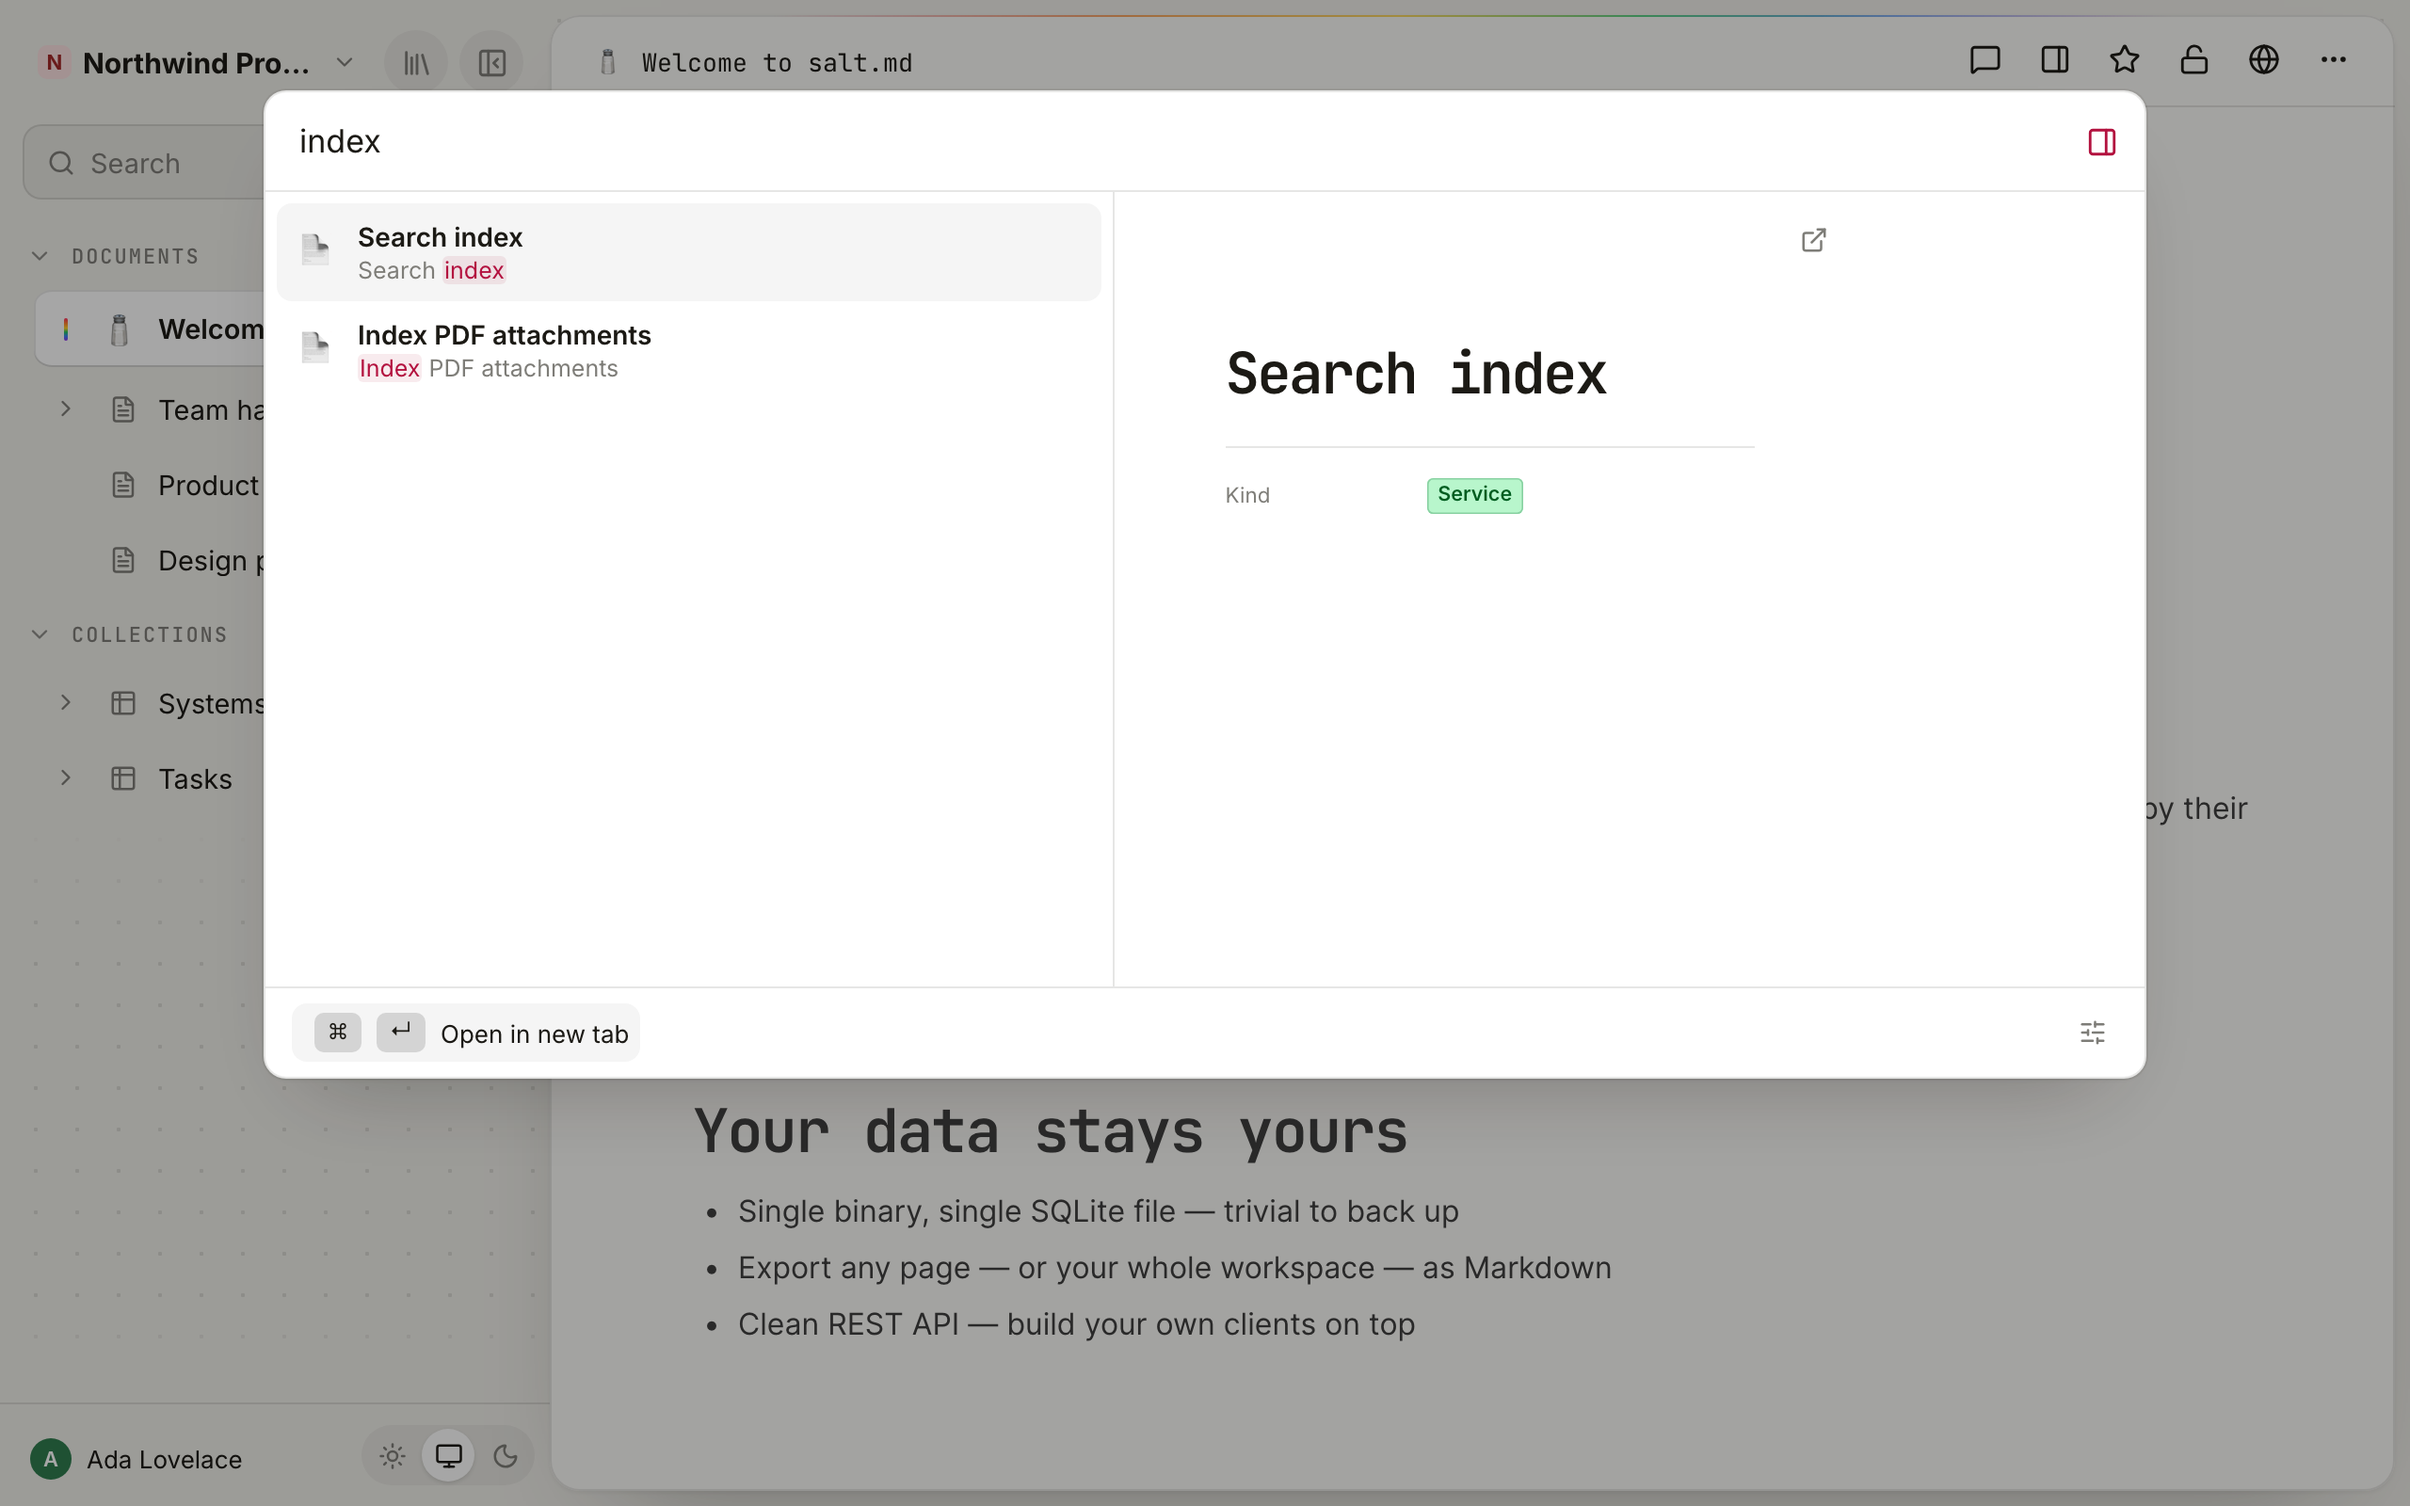
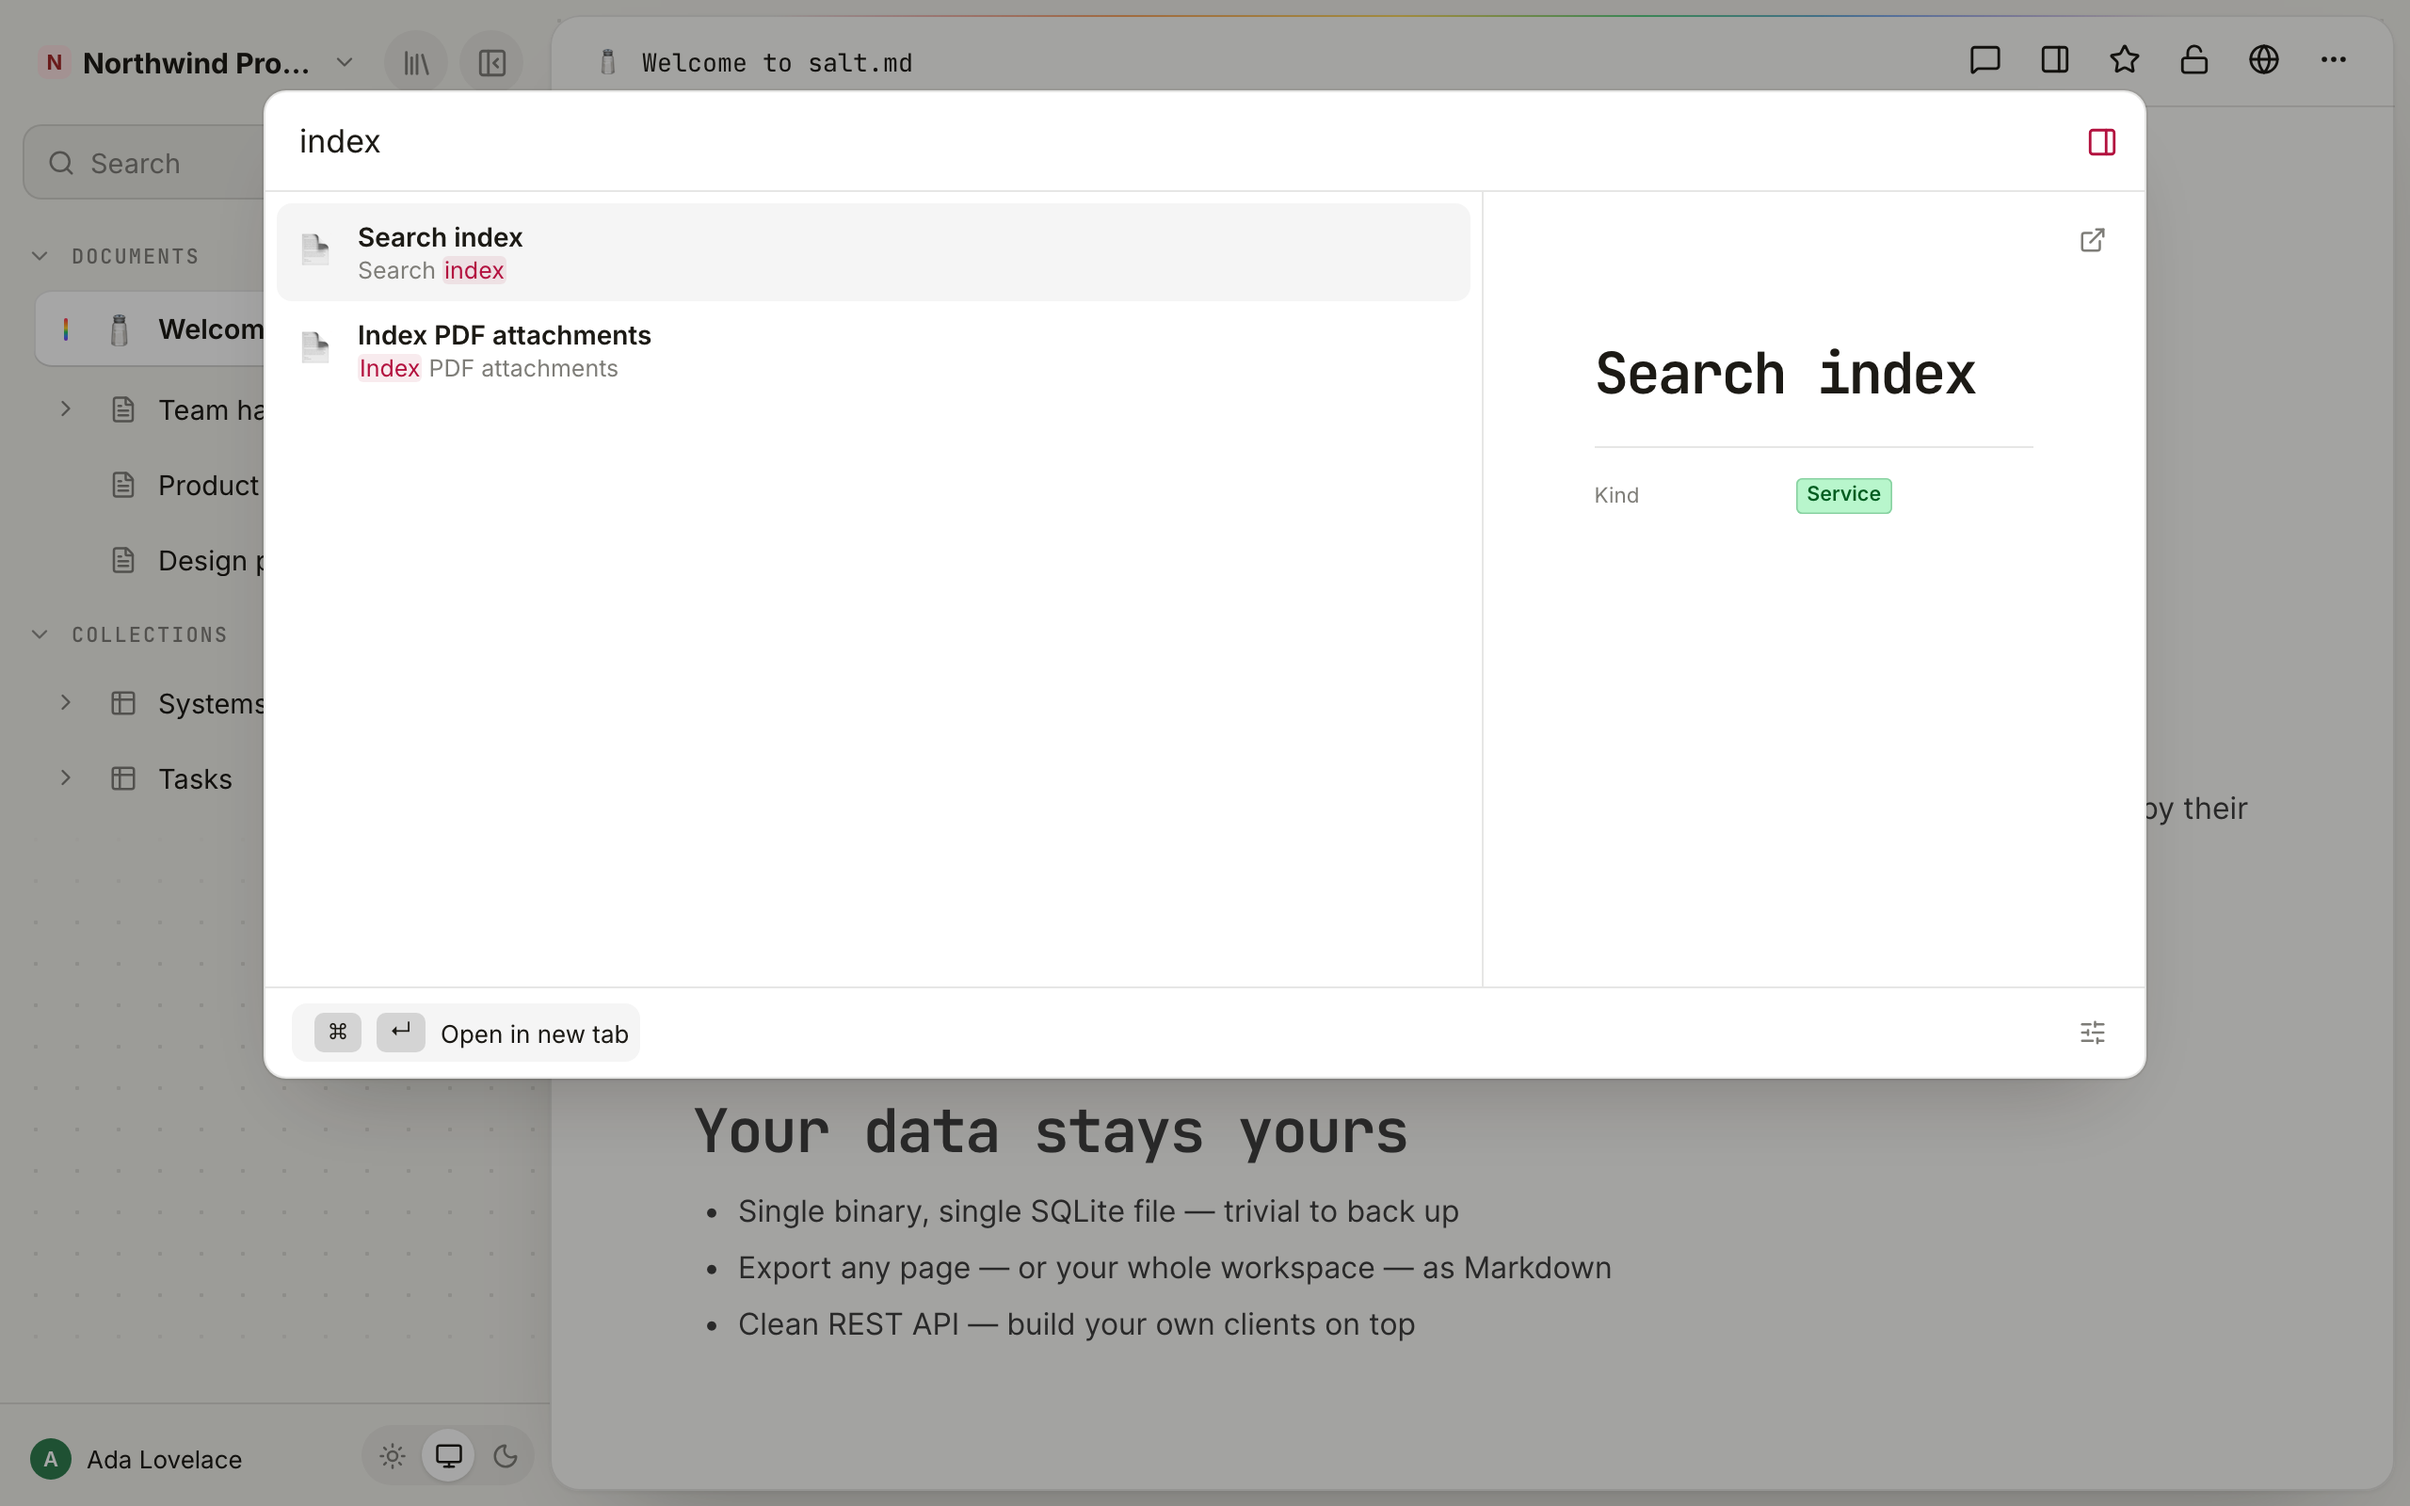
Palette: workspace switch leads, 2/3-1/3 split, always-new-tab
- Workspace rows render first with a 'Switch to {name}' caption, in
  their own leading section, in every mode.
- Results take 2/3, preview 1/3; scope chips are a vertical scroller.
- 'Always open in new tab' replaces the preview-only setting: plain
  clicks and Enter on any row open aside, modifiers keep meaning.

Changed region(s): [[0.5, 0.2188, 0.8125, 0.2812], [0.7188, 0.3125, 0.7812, 0.3438], [0.5938, 0.3125, 0.6562, 0.3438]]

diff --git a/web/src/components/SearchModal.tsx b/web/src/components/SearchModal.tsx
@@ -107,6 +107,9 @@ export default function SearchModal({
   // a new one. Remembered across sessions, next to the scope memory.
   const [previewNewTab, setPreviewNewTab] = useState(() => {
     try {
+      // Renamed from salt-search-preview-newtab; the old key is honored once.
+      const cur = localStorage.getItem('salt-search-newtab');
+      if (cur !== null) return cur === '1';
       return localStorage.getItem('salt-search-preview-newtab') === '1';
     } catch {
       return false;
@@ -151,14 +154,23 @@ export default function SearchModal({
   const matchedCmds = useMemo(() => matchCommands(cmdQuery, allCmds), [cmdQuery, allCmds]);
   // In command mode (`>`) only commands; otherwise server hits first and the
   // matching commands after them. An empty query shows recents, then commands.
+  // Workspace rows always lead: switching scope precedes switching pages.
   const items: NavItem[] = useMemo(() => {
-    if (cmdOnly) return matchedCmds.map((c) => ({ kind: 'command' as const, c }));
-    const out: NavItem[] = results.map((r) => ({ kind: 'result' as const, r }));
+    const isWs = (c: PaletteCommand & { aliases: string[] }) => c.id.startsWith('ws:');
+    if (cmdOnly) {
+      const ws = matchedCmds.filter(isWs);
+      const rest = matchedCmds.filter((c) => !isWs(c));
+      return [...ws, ...rest].map((c) => ({ kind: 'command' as const, c }));
+    }
+    const ws = matchedCmds.filter(isWs);
+    const out: NavItem[] = ws.map((c) => ({ kind: 'command' as const, c }));
+    for (const r of results) out.push({ kind: 'result' as const, r });
     if (q.trim() === '') {
       for (const r of recent ?? []) out.push({ kind: 'recent' as const, r });
-      for (const c of allCmds) out.push({ kind: 'command' as const, c });
+      for (const c of allCmds.filter((c) => !isWs(c))) out.push({ kind: 'command' as const, c });
     } else {
-      for (const c of matchedCmds.slice(0, 5)) out.push({ kind: 'command' as const, c });
+      for (const c of matchedCmds.filter((c) => !isWs(c)).slice(0, 5))
+        out.push({ kind: 'command' as const, c });
     }
     return out;
     // allCmds/matchedCmds are fresh arrays per render; identity deps would loop.
@@ -193,6 +205,18 @@ export default function SearchModal({
     return () => window.clearTimeout(timer);
   }, [previewId]);
 
+  // When on, every plain activation opens a new tab: result rows, recents
+  // and preview clicks alike. Modified clicks keep their meaning.
+  const openPageId = (id: string) => (previewNewTab ? (onOpenInNewTab ?? onNavigate)(id) : onNavigate(id));
+
+  const openRowClick = (e: React.MouseEvent, id: string) => {
+    if (e.button === 0 && !e.shiftKey && !e.altKey && !e.metaKey && !e.ctrlKey) {
+      openPageId(id);
+      return;
+    }
+    openPage(e, id, { onNavigate, onOpenInNewTab });
+  };
+
   const openItem = (it: NavItem, e?: React.KeyboardEvent | React.MouseEvent) => {
     if (it.kind === 'command') {
       const id = it.c.id;
@@ -217,14 +241,14 @@ export default function SearchModal({
         else onNavigate(id);
       } else if (e.altKey) onNavigate(id);
       else if (e.metaKey || e.ctrlKey) (onOpenInNewTab ?? onNavigate)(id);
-      else onNavigate(id);
+      else openPageId(id);
       return;
     }
     if (e && 'shiftKey' in e) {
-      openPage(e as React.MouseEvent, id, { onNavigate, onOpenInNewTab });
+      openRowClick(e as React.MouseEvent, id);
       return;
     }
-    onNavigate(id);
+    openPageId(id);
   };
 
   const onKey = (e: React.KeyboardEvent) => {
@@ -269,7 +293,7 @@ export default function SearchModal({
     setPreviewNewTab((v) => {
       const next = !v;
       try {
-        localStorage.setItem('salt-search-preview-newtab', next ? '1' : '0');
+        localStorage.setItem('salt-search-newtab', next ? '1' : '0');
       } catch {
         /* private mode — the choice still applies for this session */
       }
@@ -297,6 +321,14 @@ export default function SearchModal({
 
   const showResults = !cmdOnly && q.trim() !== '' && results.length > 0;
   const showCmdLabel = !cmdOnly && q.trim() !== '' && items.some((i) => i.kind === 'command');
+  // Workspace rows render in their own leading section, mirroring nav order.
+  const isWsRow = (c: PaletteCommand & { aliases: string[] }) => c.id.startsWith('ws:');
+  const wsRows = (cmdOnly ? matchedCmds : q.trim() === '' ? allCmds : matchedCmds).filter(isWsRow);
+  const regCmds = cmdOnly
+    ? matchedCmds.filter((c) => !isWsRow(c))
+    : q.trim() === ''
+      ? allCmds.filter((c) => !isWsRow(c))
+      : matchedCmds.filter((c) => !isWsRow(c)).slice(0, 5);
 
   return (
     <Portal>
@@ -350,6 +382,29 @@ export default function SearchModal({
             </div>
           )}
           <div className="search-results">
+            {wsRows.length > 0 && (
+              <>
+                <div className="search-section-label">{t('Workspaces')}</div>
+                {wsRows.map((c) => {
+                  const idx = items.findIndex((i) => i.kind === 'command' && i.c.id === c.id);
+                  return (
+                    <button
+                      key={c.id}
+                      className={'search-result search-command' + (idx === sel ? ' selected' : '')}
+                      onMouseEnter={() => idx >= 0 && setSel(idx)}
+                      onClick={() => {
+                        const it = items[idx];
+                        if (it) openItem(it);
+                      }}
+                    >
+                      <span className="result-body">
+                        <span className="result-title">{c.label}</span>
+                      </span>
+                    </button>
+                  );
+                })}
+              </>
+            )}
             {showResults &&
               results.map((r) => {
                 const idx = items.findIndex((i) => (i.kind === 'result' || i.kind === 'recent') && i.r.id === r.id);
@@ -358,7 +413,7 @@ export default function SearchModal({
                     key={r.id}
                     className={'search-result' + (idx === sel ? ' selected' : '')}
                     onMouseEnter={() => idx >= 0 && setSel(idx)}
-                    onClick={(e) => openPage(e, r.id, { onNavigate, onOpenInNewTab })}
+                    onClick={(e) => openRowClick(e, r.id)}
                     onAuxClick={(e) => openPageAux(e, r.id, { onNavigate, onOpenInNewTab })}
                   >
                     <span className="result-icon"><PageIcon icon={r.icon} size={16} fallback="📄" /></span>
@@ -390,7 +445,7 @@ export default function SearchModal({
                       key={r.id}
                       className={'search-result' + (idx === sel ? ' selected' : '')}
                       onMouseEnter={() => idx >= 0 && setSel(idx)}
-                      onClick={(e) => openPage(e, r.id, { onNavigate, onOpenInNewTab })}
+                      onClick={(e) => openRowClick(e, r.id)}
                       onAuxClick={(e) => openPageAux(e, r.id, { onNavigate, onOpenInNewTab })}
                     >
                       <span className="result-icon"><PageIcon icon={r.icon} size={16} fallback="📄" /></span>
@@ -402,10 +457,10 @@ export default function SearchModal({
                 })}
               </>
             )}
-            {(cmdOnly || showCmdLabel || (q.trim() === '' && !cmdOnly)) && (
+            {(cmdOnly || showCmdLabel || (q.trim() === '' && !cmdOnly)) && regCmds.length > 0 && (
               <>
                 <div className="search-section-label">{t('Commands')}</div>
-                {(cmdOnly ? matchedCmds : q.trim() === '' ? allCmds : matchedCmds.slice(0, 5)).map((c) => {
+                {regCmds.map((c) => {
                   const idx = items.findIndex((i) => i.kind === 'command' && i.c.id === c.id);
                   return (
                     <button
@@ -507,7 +562,7 @@ export default function SearchModal({
               </label>
               <label>
                 <input type="checkbox" checked={previewNewTab} onChange={togglePreviewNewTab} />
-                {t('Open preview in new tab')}
+                {t('Always open in new tab')}
               </label>
             </div>
           )}

diff --git a/web/src/styles.css b/web/src/styles.css
@@ -1871,24 +1871,28 @@ body:has(.icon-picker) .bn-side-menu {
   font-size: 13.5px;
 }
 
-/* Workspace scope chips under the search field. */
+/* Workspace scope chips: a vertical scrollable list rather than a wrapping
+   row, so ten workspaces cost a slim rail instead of the whole first screen. */
 .search-scopes {
   display: flex;
-  flex-wrap: wrap;
-  gap: 6px;
+  flex-direction: column;
+  align-items: stretch;
+  gap: 4px;
   padding: 10px 14px 2px;
+  max-height: 118px;
+  overflow-y: auto;
 }
 
 .search-scope {
   font-size: 12px;
-  padding: 3px 10px;
-  border-radius: 999px;
+  padding: 4px 10px;
+  border-radius: 8px;
   border: 1px solid var(--border);
   color: var(--muted);
-  max-width: 180px;
   overflow: hidden;
   text-overflow: ellipsis;
   white-space: nowrap;
+  text-align: left;
 }
 
 .search-scope.is-on {
@@ -1915,12 +1919,14 @@ body:has(.icon-picker) .bn-side-menu {
    exactly like the page — a click on plain content opens it (see openPreview),
    while the editor's own controls and links answer for themselves. */
 .search-main {
-  flex: 0 1 450px;
+  flex: 2;
   min-width: 0;
 }
 
 .search-preview {
-  width: 400px;
+  flex: 1;
+  width: auto;
+  min-width: 0;
   flex-shrink: 0;
   border-left: 1px solid var(--border);
   padding: 12px 14px 18px;

diff --git a/web/src/commands.ts b/web/src/commands.ts
@@ -84,13 +84,14 @@ export function matchCommands(
 /** One row per workspace: switching is not a shortcut, so the registry cannot
  *  carry it — these are built from the workspace list instead and run by id
  *  prefix (see openItem in SearchModal). The name IS the search text, in
- *  whatever language the workspace was named. */
+ *  whatever language the workspace was named; the prefix answers "show me
+ *  every workspace" in the reader's own language. */
 export function workspaceSwitchCommands(
   workspaces: { id: string; name: string }[],
 ): (PaletteCommand & { aliases: string[] })[] {
   return workspaces.map((w) => ({
     id: `ws:${w.id}`,
-    label: w.name,
+    label: t('Switch to {name}', { name: w.name }),
     group: t('Workspaces'),
     keys: '',
     aliases: [],
